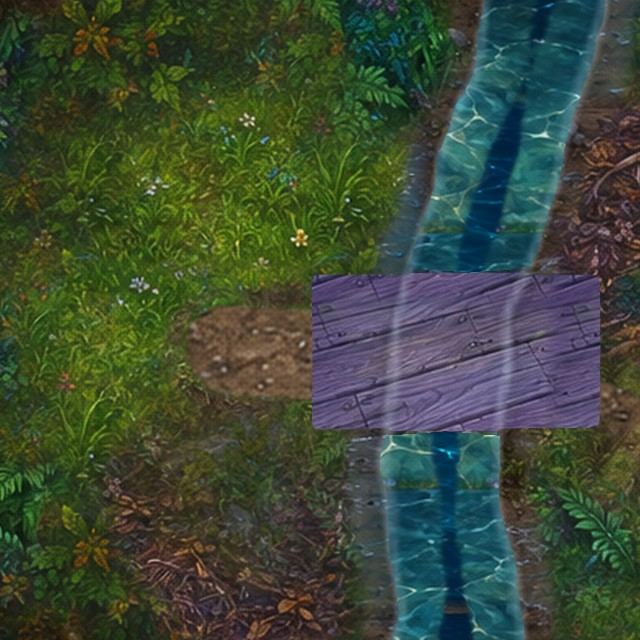
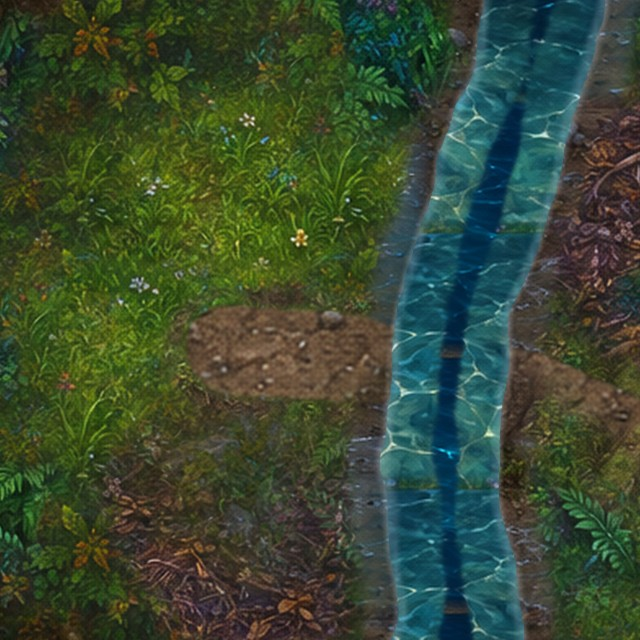
Astranaar: footbridges drawn as ash_footbridge sprites over the painted brook (the translucent lilac plank rectangles are gone)
Claude-Session: https://claude.ai/code/session_015TQrViPbuGDeiupTWSG9TT

Changed region(s): [[0.4688, 0.4062, 0.9375, 0.6875]]

diff --git a/tools/handbuilt_astranaar.py b/tools/handbuilt_astranaar.py
@@ -48,6 +48,7 @@ CLEARINGS = [(55, 52, 34, 28), (55, 26, 22, 13), (86, 50, 13, 15), (28, 30, 13, 
 DECKS = [(24.0, 33.0, 54.7, 58.9),           # west footbridge over the brook
          (30.0, 38.5, 28.8, 33.2)]           # north footbridge
 CLEARING_GRASS = True
+DECK_PAINT = False                           # the footbridges are sprites (ash_footbridge); the brook stays painted under them
 
 BLUEBELL_PATCHES = [(92, 30, 6, 4), (70, 78, 5, 3), (20, 62, 5, 3)]
 
@@ -76,6 +77,8 @@ def dress(L):
     for (x, y) in [(51, 77), (59, 77), (51, 70), (59, 70), (51, 64), (59, 64)]:
         V("ash_moon_lantern", x, y, 5)
     A("ash_signpost", 60, 80, 5)
+    V("ash_footbridge", 28, 58, 5)               # west footbridge over the brook
+    V("ash_footbridge", 34, 33, 5)               # north footbridge
     # ---- the plaza: moon pool, Elune, benches of light
     A("ash_elune_statue", 46, 47, 8)
     A("ash_elune_statue", 64, 47, 8)

diff --git a/tools/bake_ashenvale_towns.py b/tools/bake_ashenvale_towns.py
@@ -60,6 +60,8 @@ def build_scores(P, M):
     deck = F["deck"].astype(np.float32)
     plank = getattr(M, "DECK_MAT", "pl_elf")
     on_deck = smoothstep(-0.30, 0.10, deck)
+    if not getattr(M, "DECK_PAINT", True):          # decks drawn as sprites (Astranaar's footbridges): leave the water painted
+        return S
     for k in list(S):
         if k.startswith(("cliff_", "canopy")) or k in ("pl_horde", "pl_elf", "pl_pier"):
             continue
